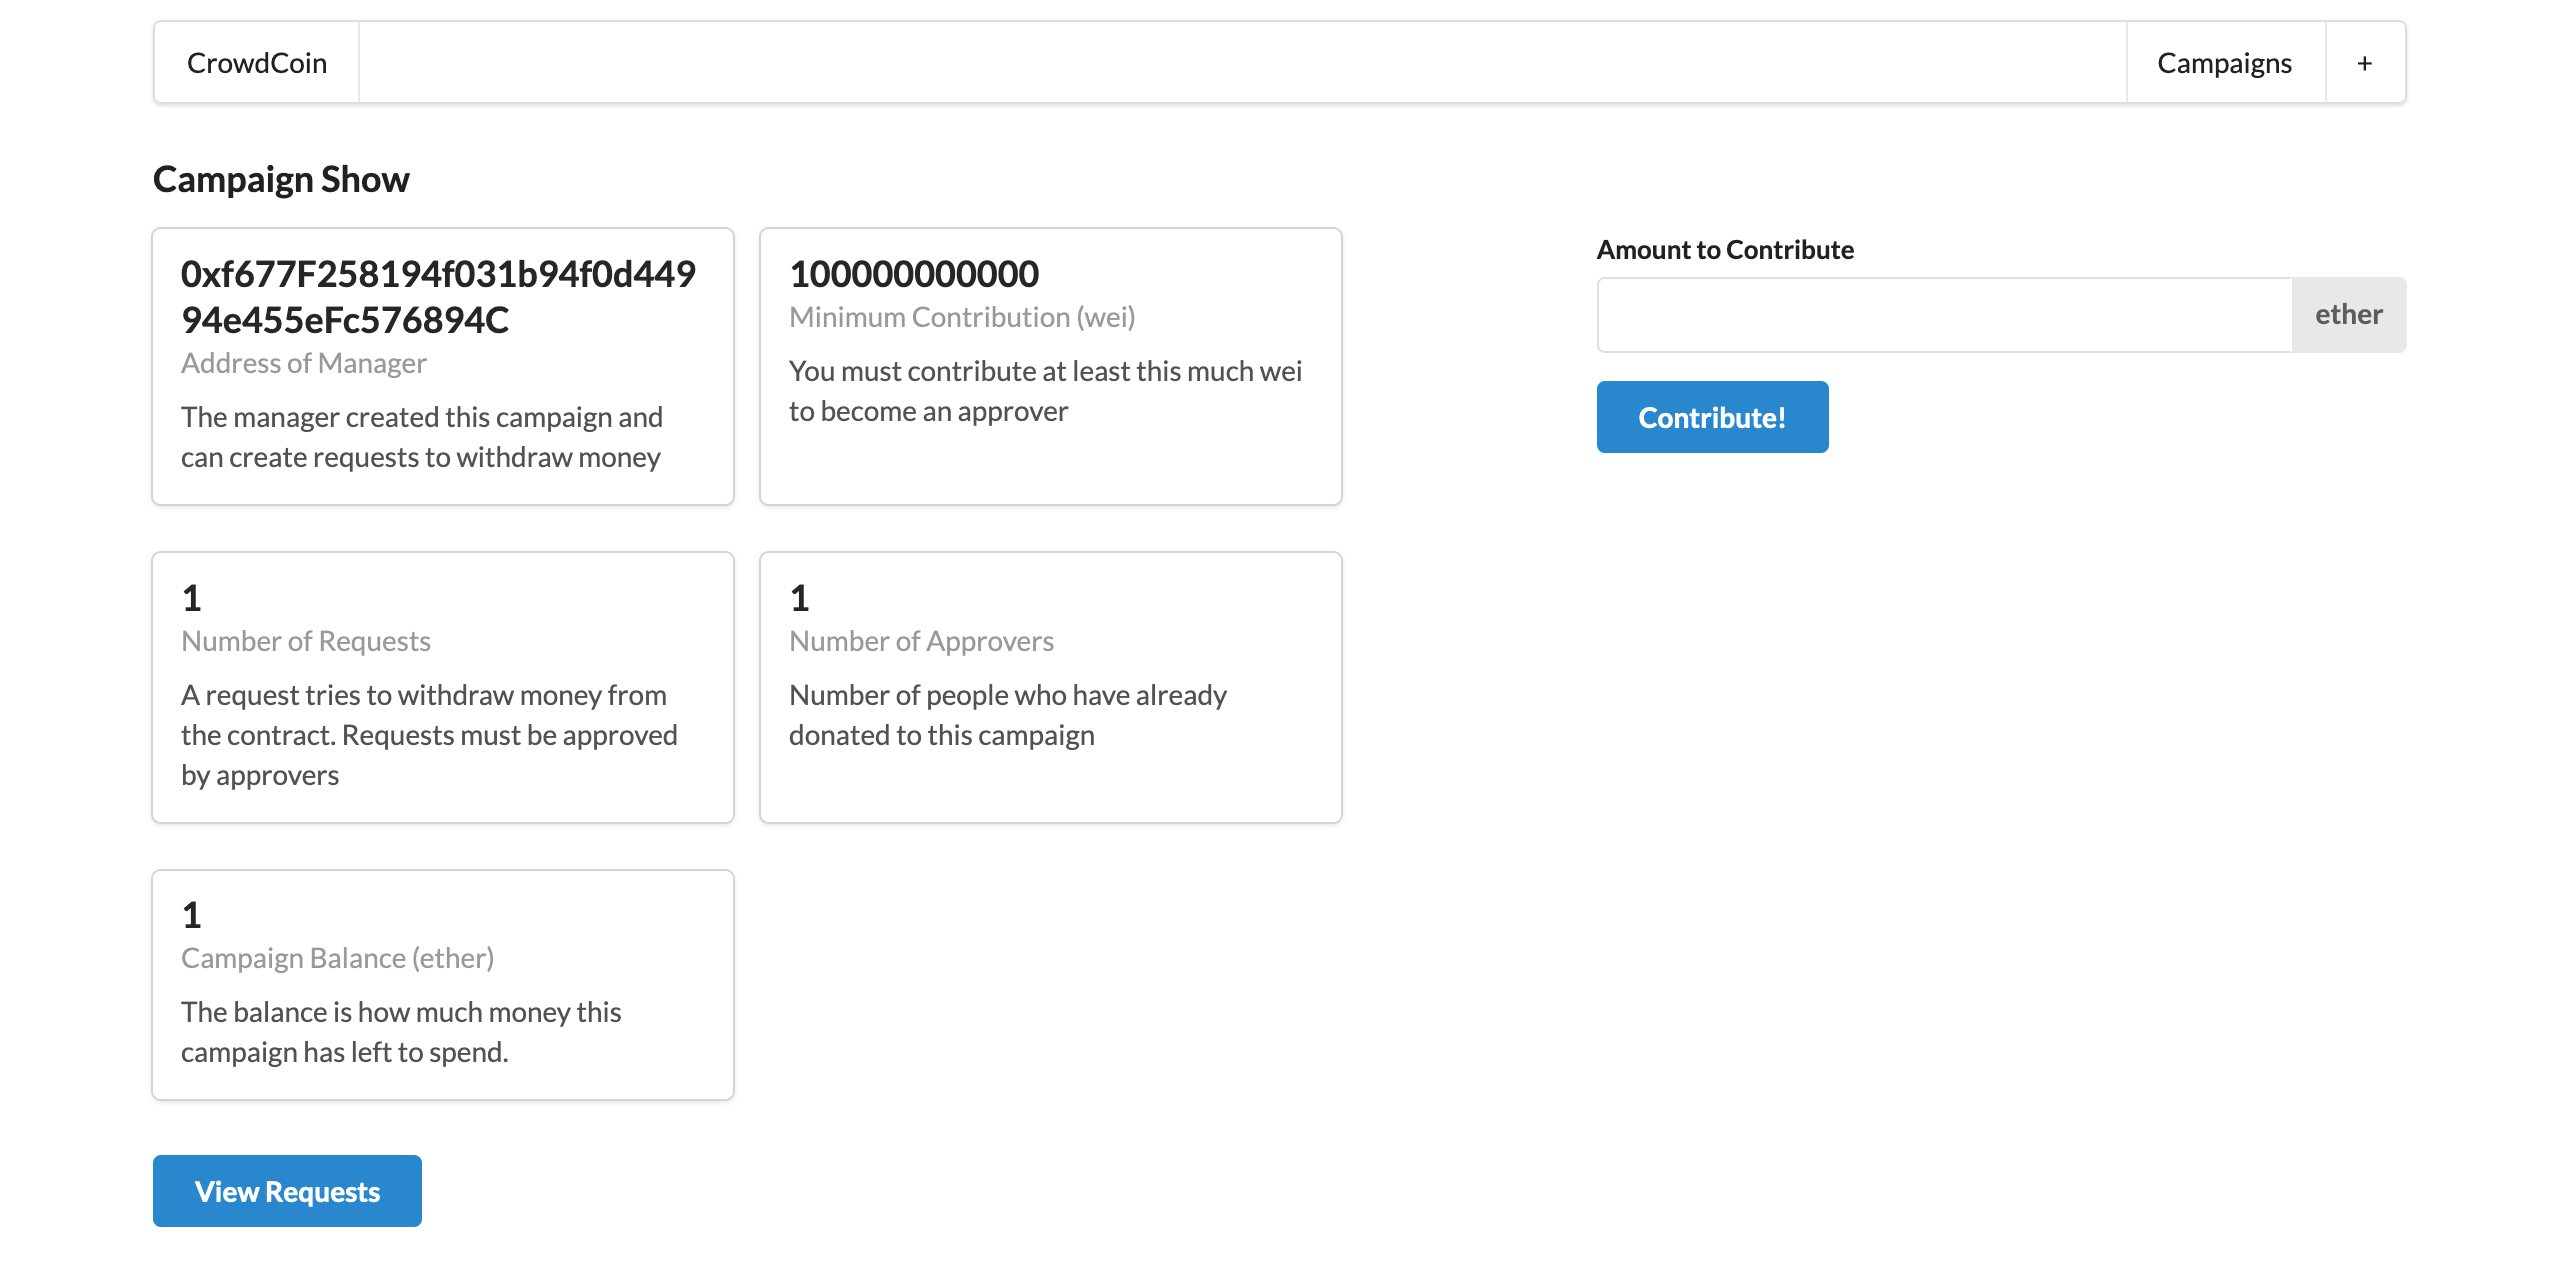
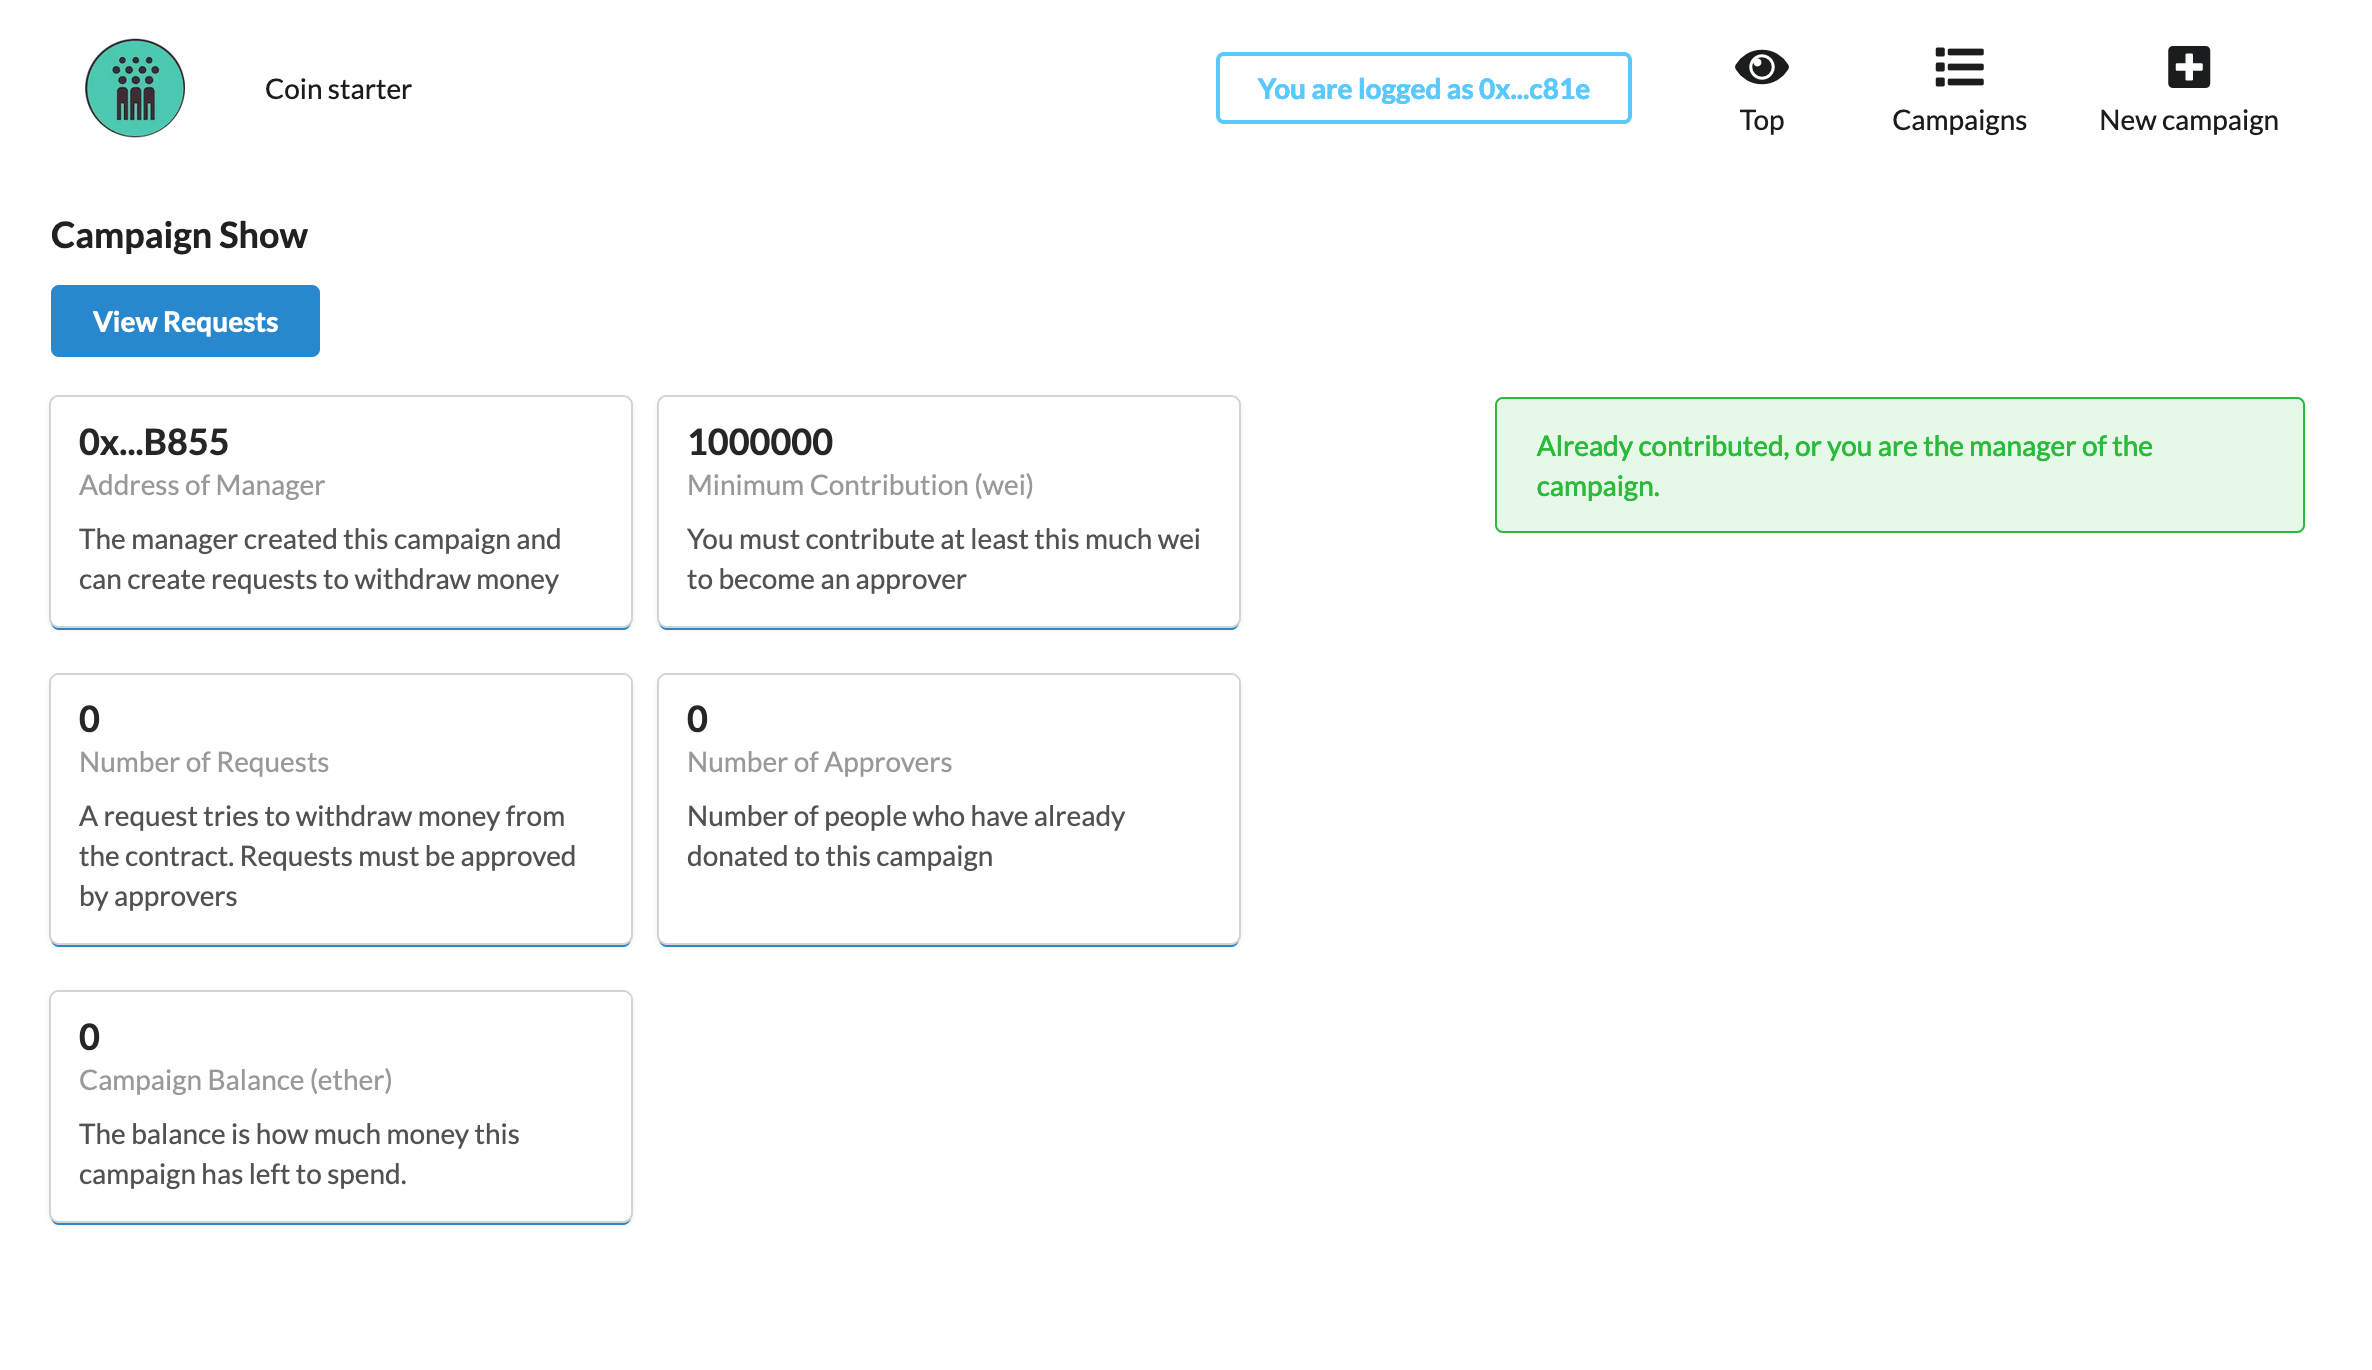
Enhance top page

diff --git a/kickstart-fe/components/Header.js b/kickstart-fe/components/Header.js
@@ -1,37 +1,58 @@
 import React from "react";
 import PropTypes from "prop-types";
-import { Menu, Button } from "semantic-ui-react";
+import { Menu, Button, Icon } from "semantic-ui-react";
+import Image from "next/image";
 import styled from "styled-components";
 import { Link } from "../routes";
 import { showFriendlyAddress } from "../common/utils";
+import logo from "../public/coin-starter-logos.png";
 
-const ConnectionInfo = styled.p`
-  text-align: right;
+const TitleStyled = styled.p`
+  color: #45cbb2;
+  font-size: 1.5em;
 `;
+
 const Header = ({ signer }) => {
   return (
     <>
-      <Menu style={{ marginTop: "10px" }}>
+      <Menu icon="labeled" secondary style={{ marginTop: "10px" }}>
         <Link route="/">
-          <a className="item">CrowdCoin</a>
+          <a className="item">
+            <Image width="50" height="50" src={logo} />
+          </a>
         </Link>
+        <Menu.Item>
+          <TitleStyled>Coin starter</TitleStyled>
+        </Menu.Item>
         <Menu.Menu position="right">
+          {signer && (
+            <Menu.Item>
+              <Button inverted color="blue">
+                You are logged as {showFriendlyAddress(signer)}
+              </Button>
+            </Menu.Item>
+          )}
           <Link route="/">
-            <a className="item">Campaigns</a>
+            <a className="item">
+              <Icon name="eye" />
+              Top
+            </a>
+          </Link>
+          <Link route="/campaigns">
+            <a className="item">
+              <Icon name="list" />
+              Campaigns
+            </a>
           </Link>
 
           <Link route="/campaigns/new">
-            <a className="item">+</a>
+            <a className="item">
+              <Icon name="add square" />
+              New campaign
+            </a>
           </Link>
         </Menu.Menu>
       </Menu>
-      {signer && (
-        <ConnectionInfo>
-          <Button inverted color="blue">
-            You are logged as {showFriendlyAddress(signer)}
-          </Button>
-        </ConnectionInfo>
-      )}
     </>
   );
 };

diff --git a/kickstart-fe/pages/index.js b/kickstart-fe/pages/index.js
@@ -1,59 +1,22 @@
-import React, { useState, useEffect } from "react";
-import { Card, Button } from "semantic-ui-react";
-import { checkIfWalletIsConnected } from "../contracts/web3";
-import Layout, { Web3Context } from "../components/Layout";
-import { Link } from "../routes";
-import getFactoryInfo from "../contracts/factoryUtil";
+import React from "react";
+import Image from "next/image";
+import logo from "../public/coin-starter-logos_black.png";
+import styled from "styled-components";
+import Layout from "../components/Layout";
 
-const CampaignIndex = (props) => {
-  // States definition
-  const [campaigns, setCampaigns] = useState([]);
+const LogoWrapperStyled = styled.div`
+  margin-top: 20px;
+  text-align: center;
+`;
 
-  // Retrieve all the campaigns from the factory
-  var retrieveCampaigns = async () => {
-    const [factoryContract, web3Context] = getFactoryInfo();
-    const info = await factoryContract?.methods.getDeployedCampaigns().call();
-    setCampaigns(info);
-  };
-
-  useEffect(async () => {
-    retrieveCampaigns();
-  }, []);
-
-  // get campaigns information and display them
-  const renderCampaigns = () => {
-    const items = campaigns?.map((address) => {
-      return {
-        header: address,
-        description: (
-          <Link route={`/campaigns/${address}`}>
-            <a>View Campaign</a>
-          </Link>
-        ),
-        fluid: true,
-      };
-    });
-    return <Card.Group items={items} />;
-  };
-
+const Index = (props) => {
   return (
     <Layout>
-      <div>
-        <h3>Open Campaigns</h3>
-        <Link route="/campaigns/new">
-          <a>
-            <Button
-              floated="right"
-              content="Create Campaign"
-              icon="add circle"
-              primary
-            />
-          </a>
-        </Link>
-        {renderCampaigns()}
-      </div>
+      <LogoWrapperStyled>
+        <Image src={logo} />
+      </LogoWrapperStyled>
     </Layout>
   );
 };
 
-export default CampaignIndex;
+export default Index;

diff --git a/kickstart-fe/pages/campaigns.js b/kickstart-fe/pages/campaigns.js
@@ -1,0 +1,59 @@
+import React, { useState, useEffect } from "react";
+import { Card, Button } from "semantic-ui-react";
+import { checkIfWalletIsConnected } from "../contracts/web3";
+import Layout, { Web3Context } from "../components/Layout";
+import { Link } from "../routes";
+import getFactoryInfo from "../contracts/factoryUtil";
+
+const CampaignIndex = (props) => {
+  // States definition
+  const [campaigns, setCampaigns] = useState([]);
+
+  // Retrieve all the campaigns from the factory
+  var retrieveCampaigns = async () => {
+    const [factoryContract, web3Context] = getFactoryInfo();
+    const info = await factoryContract?.methods.getDeployedCampaigns().call();
+    setCampaigns(info);
+  };
+
+  useEffect(async () => {
+    retrieveCampaigns();
+  }, []);
+
+  // get campaigns information and display them
+  const renderCampaigns = () => {
+    const items = campaigns?.map((address) => {
+      return {
+        header: address,
+        description: (
+          <Link route={`/campaigns/${address}`}>
+            <a>View Campaign</a>
+          </Link>
+        ),
+        fluid: true,
+      };
+    });
+    return <Card.Group items={items} />;
+  };
+
+  return (
+    <Layout>
+      <div>
+        <h3>Open Campaigns</h3>
+        <Link route="/campaigns/new">
+          <a>
+            <Button
+              floated="right"
+              content="Create Campaign"
+              icon="add circle"
+              primary
+            />
+          </a>
+        </Link>
+        {renderCampaigns()}
+      </div>
+    </Layout>
+  );
+};
+
+export default CampaignIndex;

diff --git a/kickstart-fe/pages/campaigns/[address].js b/kickstart-fe/pages/campaigns/[address].js
@@ -90,6 +90,13 @@ const CampaignShow = ({ address }) => {
   return (
     <Layout>
       <h3>Campaign Show</h3>
+      <Link route={`/campaigns/${address}/requests`}>
+        <a>
+          <Button primary>View Requests</Button>
+        </a>
+      </Link>
+      <br />
+      <br />
       <Grid>
         <Grid.Row>
           <Grid.Column width={10}>{renderCards()}</Grid.Column>
@@ -101,16 +108,6 @@ const CampaignShow = ({ address }) => {
                 Already contributed, or you are the manager of the campaign.
               </Message>
             )}
-          </Grid.Column>
-        </Grid.Row>
-
-        <Grid.Row>
-          <Grid.Column>
-            <Link route={`/campaigns/${address}/requests`}>
-              <a>
-                <Button primary>View Requests</Button>
-              </a>
-            </Link>
           </Grid.Column>
         </Grid.Row>
       </Grid>

diff --git a/kickstart-fe/pages/campaigns/new.js b/kickstart-fe/pages/campaigns/new.js
@@ -21,7 +21,7 @@ const CampaignNew = () => {
         from: accounts[0],
       });
 
-      Router.pushRoute("/");
+      Router.pushRoute("/campaigns");
     } catch (err) {
       setErrorMessage(err.message);
     }

diff --git a/readme.md b/readme.md
@@ -37,7 +37,11 @@ sequenceDiagram
 ```
 
 **Top**
+![top](/docs/top-unsigned.png)
 ![top](/docs/top.png)
+
+**Campaigns top**
+![campaigns top](/docs/campaigns-top.png)
 
 **Campaign Details**
 ![campaign details](/docs/campaign-details.png)
